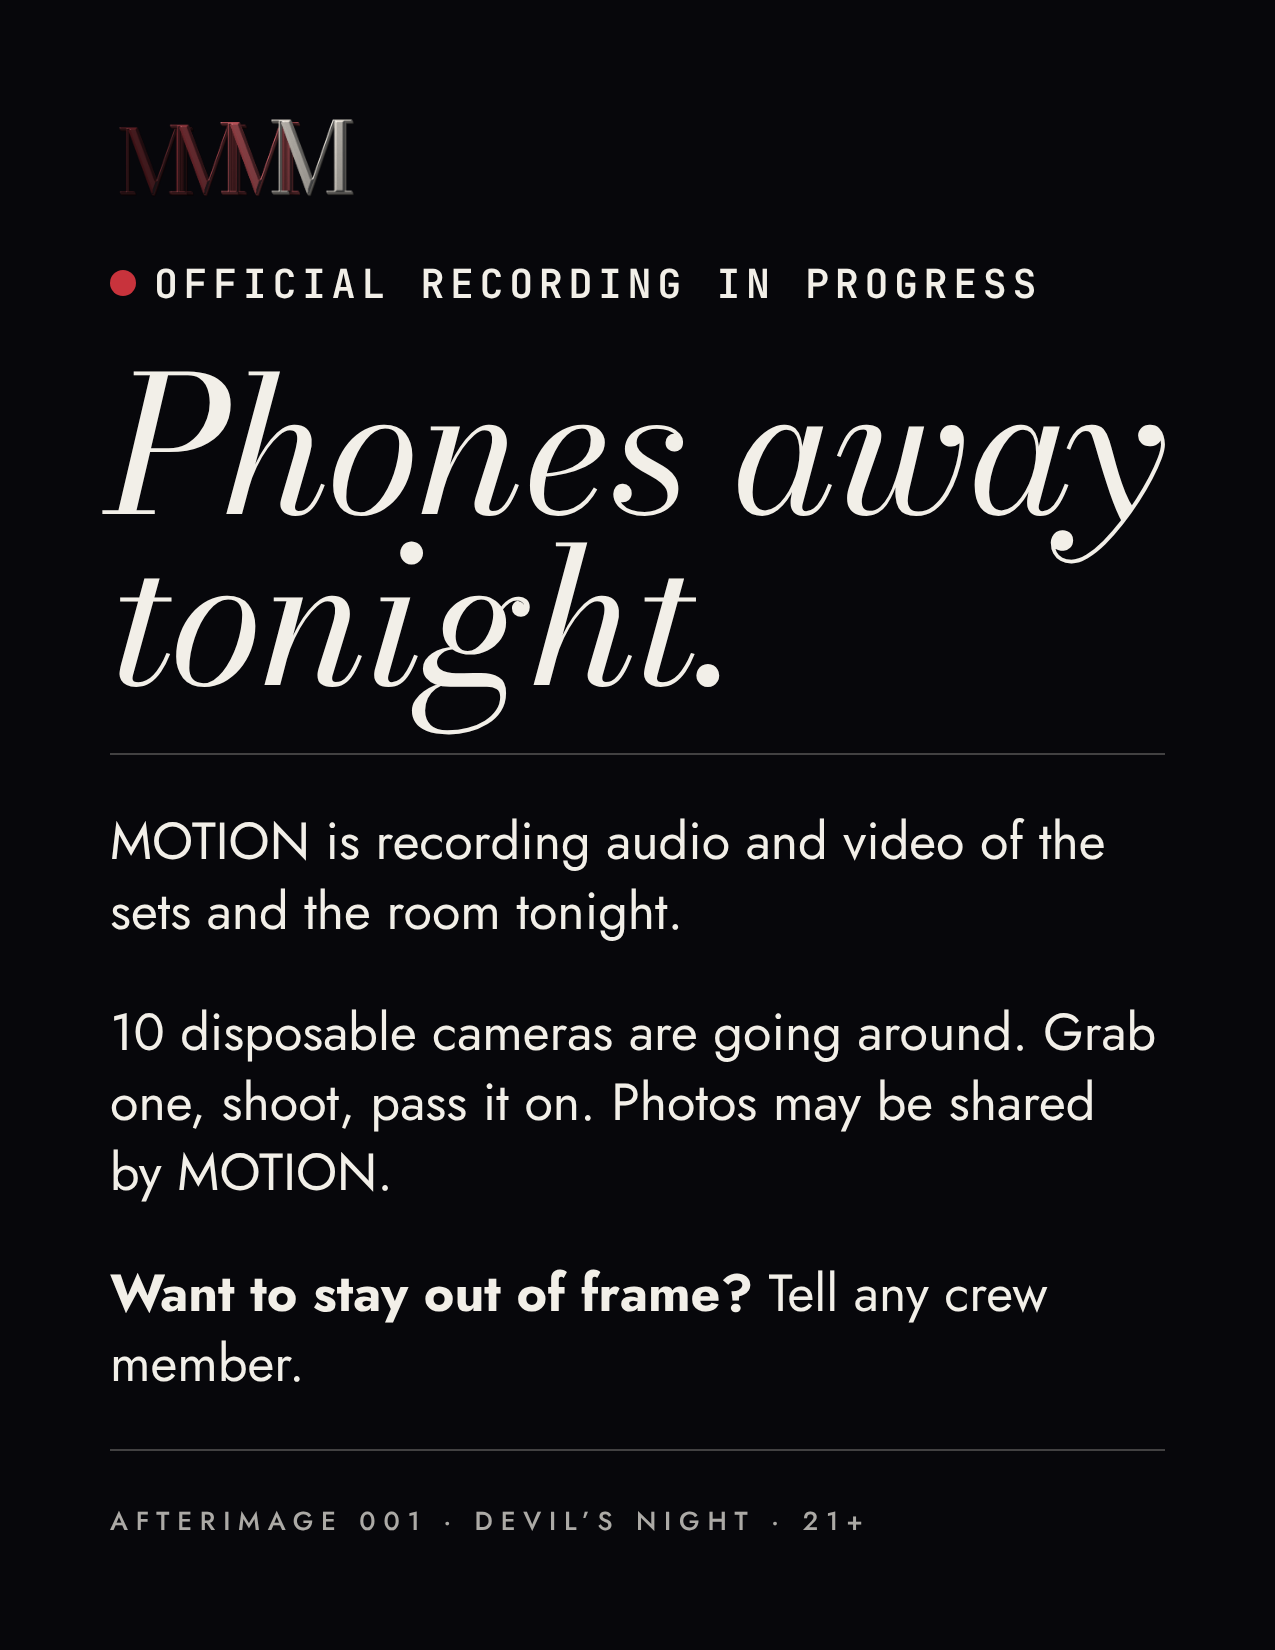
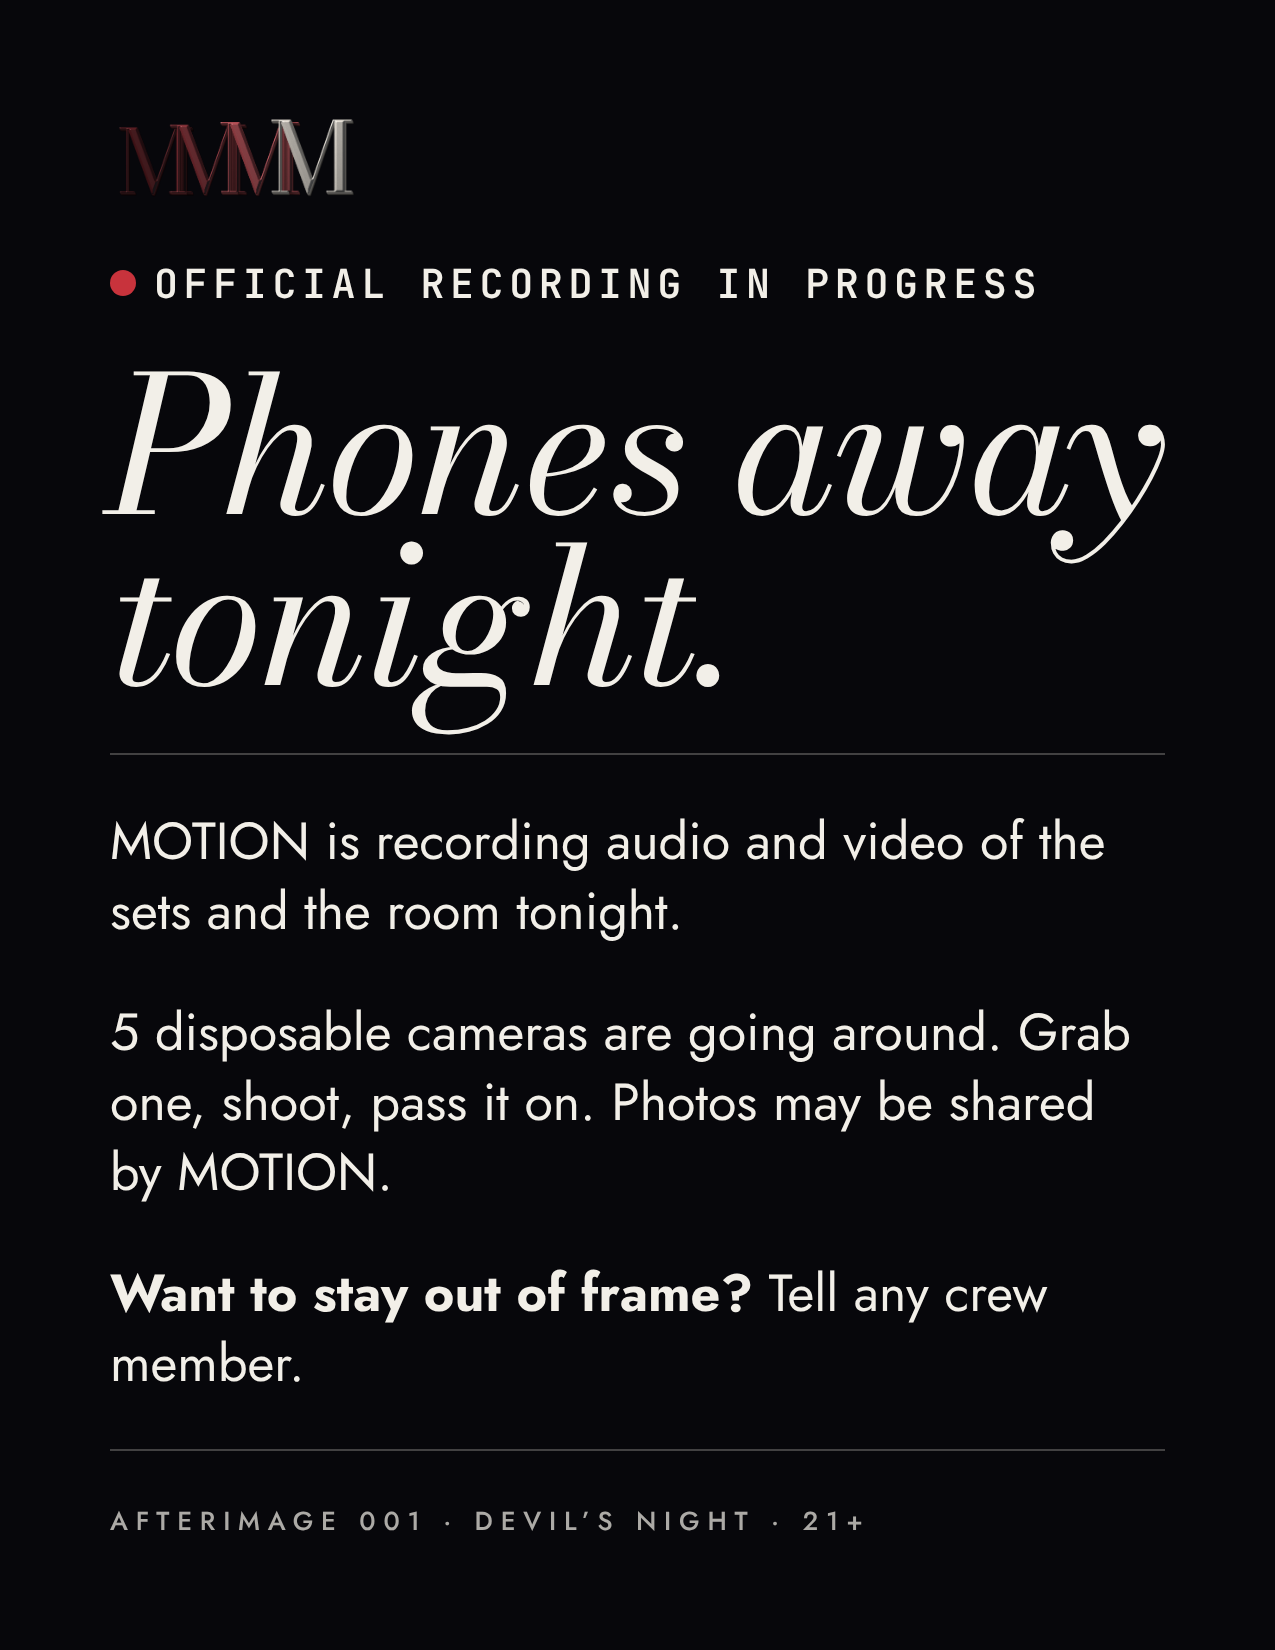
Cameras: 10 -> 5 across the program, posts, door sign and copy
Claude-Session: https://claude.ai/code/session_01A4LNKAXFW4TxnWYyCtkq6Z

Changed region(s): [[0.0918, 0.6182, 0.9176, 0.6491]]

diff --git a/media/posts/lineup_v2/src/promo_18oct.html b/media/posts/lineup_v2/src/promo_18oct.html
@@ -70,10 +70,10 @@ const V = {
     <div style="position:absolute;left:72px;right:72px;top:190px" class="k b">10.30.2026 · Devil’s Night</div>
     <div class="strip"><div class="img"></div><div class="holes l">${holes(9)}</div><div class="holes r2">${holes(9)}</div>
       <span class="edge" style="left:12px;top:-34px">MOTION 400 · B&amp;W</span><span class="edge" style="right:12px;top:-34px">24A ▸ 25</span>
-      <span class="edge" style="left:12px;bottom:-34px">MOTION 01 / 10</span><span class="edge" style="right:12px;bottom:-34px">25A ▸</span></div>
+      <span class="edge" style="left:12px;bottom:-34px">MOTION 01 / 05</span><span class="edge" style="right:12px;bottom:-34px">25A ▸</span></div>
     <div style="position:absolute;left:72px;right:72px;top:1430px;display:grid;gap:26px">
       <div class="it" style="font-size:118px">No phones.</div><div class="rule"></div>
-      <div style="font-size:34px;font-weight:300;line-height:1.45;color:#d9d4cb">10 disposable cameras go round the room. Shoot, pass it on. We develop the film and post it after.</div></div>
+      <div style="font-size:34px;font-weight:300;line-height:1.45;color:#d9d4cb">5 disposable cameras go round the room. Shoot, pass it on. We develop the film and post it after.</div></div>
     ${FOOT('Invite only', 'RSVP · link in bio')}</div>`,
   lineup: `<div class="s"><div class="top">${MARK}<span class="k">AFTERIMAGE 001</span></div>
     <div style="position:absolute;left:0;right:0;top:160px;text-align:center" class="k b">Devil’s Night · the lineup</div>
@@ -89,7 +89,7 @@ const V = {
     <div class="bignum">01</div><div class="big low"><span class="num">01</span><h1 class="it">Phones away.</h1><p>The night is officially recorded: the sets and the room. You don’t need your phone to remember it.</p></div>
     ${FOOT('AFTERIMAGE 001', 'Official recording on site')}</div>`,
   rules3: `<div class="s"><div class="top">${MARK}<span class="k">III / IV</span></div>
-    <div class="bignum">02</div><div class="big low"><span class="num">02</span><h1 class="it">10 cameras.</h1><p>Disposable cameras go round the room. Shoot, pass it on. We develop the film and post the best frames.</p></div>
+    <div class="bignum">02</div><div class="big low"><span class="num">02</span><h1 class="it">5 cameras.</h1><p>Disposable cameras go round the room. Shoot, pass it on. We develop the film and post the best frames.</p></div>
     ${FOOT('AFTERIMAGE 001', 'Shoot · pass it on')}</div>`,
   rules4: `<div class="s"><div class="top">${MARK}<span class="k">IV / IV</span></div>
     <div class="big"><span class="num">03</span><h1 class="it">Know this.</h1>
@@ -99,17 +99,17 @@ const V = {
   door: `<div class="door"><div class="in">${'<img class="mk" src="../logo/MOTION_mark_3d.png" alt="">'}<div class="rec"><i></i>OFFICIAL RECORDING IN PROGRESS</div>
     <h1 class="it">Phones away tonight.</h1><div class="hr"></div>
     <p>MOTION is recording audio and video of the sets and the room tonight.</p>
-    <p>10 disposable cameras are going around. Grab one, shoot, pass it on. Photos may be shared by MOTION.</p>
+    <p>5 disposable cameras are going around. Grab one, shoot, pass it on. Photos may be shared by MOTION.</p>
     <p><b>Want to stay out of frame?</b> Tell any crew member.</p><div class="hr"></div>
     <div class="small">AFTERIMAGE 001 · Devil’s Night · 21+</div></div></div>`,
 };
 V.camsign = `<div class="s"><div class="top">${MARK}<span class="k">AFTERIMAGE 001</span></div>
-    <div class="bignum" style="top:120px;left:40px;font-size:400px">10</div>
-    <div class="big low" style="bottom:200px"><span class="k b">Shooters wanted</span><h1 class="it">10 cameras.<br>10 of you.</h1>
-      <p style="max-width:900px">10 guests get a disposable camera. You shoot the night; we develop the film and post your frames, credited to you.</p>
+    <div class="bignum" style="top:120px;left:40px;font-size:400px">5</div>
+    <div class="big low" style="bottom:200px"><span class="k b">Shooters wanted</span><h1 class="it">5 cameras.<br>5 of you.</h1>
+      <p style="max-width:900px">5 guests get a disposable camera. You shoot the night; we develop the film and post your frames, credited to you.</p>
       <div class="list" style="margin-top:6px"><div><span>→</span><b>DM “CAMERA” to claim one</b></div></div></div>
-    ${FOOT('First 10 DMs', '10.30.2026')}</div>`;
-V.camsignstory = V.camsign.replace('class="s"', 'class="s story"').replace('top:120px;left:40px;font-size:400px', 'top:200px;left:40px');
+    ${FOOT('First 5 DMs', '10.30.2026')}</div>`;
+V.camsignstory = V.camsign.replace('class="s"', 'class="s story"').replace('top:120px;left:40px;font-size:400px', 'top:200px;left:40px;font-size:640px');
 V.doordark = V.door.replace('class="door"', 'class="door dark"');
 R.innerHTML = V[v] || '';
 </script></body></html>

diff --git a/orch/plans/CAMERA_PROGRAM.md b/orch/plans/CAMERA_PROGRAM.md
@@ -1,19 +1,19 @@
 # AFTERIMAGE 001 · Disposable camera program (DRAFT, nothing bought)
 
-**Goal:** 10 disposable cameras go round the guests during the night. We collect them at the end, develop the film and post the best frames. It fits the phones-away rule: the photos still happen, they just come back days later.
+**Goal (5 cameras, decided 18 Oct):** 5 disposable cameras go round the guests during the night. We collect them at the end, develop the film and post the best frames. It fits the phones-away rule: the photos still happen, they just come back days later.
 
 ## 1. Which camera (prices are estimates from 18 Oct searches; check before buying)
-| Option | Film | Look | Est. price each | 10 cameras | Notes |
+| Option | Film | Look | Est. price each | 5 cameras | Notes |
 |---|---|---|---|---|---|
-| **A · Ilford XP2 Super single-use** (recommended) | B&W, ISO 400, **C-41 process** | Black and white, on brand | ~$20–30 | ~$200–300 | B&W film that any colour (C-41) lab develops fast and cheap. Matches the brand with no conversion. |
-| B · Kodak Tri-X single-use | B&W, true B&W process | Classic grainy B&W | ~$18–26 | ~$180–260 | Needs a B&W-capable lab; slower and often mail-in. |
-| C · Kodak FunSaver 800 (flash) | Colour, ISO 800 | Colour, we convert to B&W | ~$12–26 | ~$120–260 | Cheapest and easiest to find; ISO 800 suits a dark room. |
-| D · Fujifilm QuickSnap Flash 400 | Colour, ISO 400 | Colour, we convert | ~$13–25 | ~$130–250 | Common; ISO 400 is a bit slow for a dim room. |
+| **A · Ilford XP2 Super single-use** (recommended) | B&W, ISO 400, **C-41 process** | Black and white, on brand | ~$20–30 | ~$100–150 | B&W film that any colour (C-41) lab develops fast and cheap. Matches the brand with no conversion. |
+| B · Kodak Tri-X single-use | B&W, true B&W process | Classic grainy B&W | ~$18–26 | ~$90–130 | Needs a B&W-capable lab; slower and often mail-in. |
+| C · Kodak FunSaver 800 (flash) | Colour, ISO 800 | Colour, we convert to B&W | ~$12–26 | ~$60–130 | Cheapest and easiest to find; ISO 800 suits a dark room. |
+| D · Fujifilm QuickSnap Flash 400 | Colour, ISO 400 | Colour, we convert | ~$13–25 | ~$65–125 | Common; ISO 400 is a bit slow for a dim room. |
 
-All have a built-in flash, which is the look of party disposables. 27 shots each, so about **270 frames** in total.
+All have a built-in flash, which is the look of party disposables. 27 shots each, so about **135 frames** in total.
 
 ## 2. Developing (estimates; call to confirm current price and turnaround)
-- **Austin Camera** (local): single-use C-41 develop listed at **$14.99**, next day for develop-only; scans cost extra. With option A or C, about **$150–200** for 10 rolls including scans.
+- **Austin Camera** (local): single-use C-41 develop listed at **$14.99**, next day for develop-only; scans cost extra. With option A or C, about **$75–100** for 5 rolls including scans.
 - **Holland Photo** (local): about 3 business days (2023 info; no price found).
 - **Mail-in B&W** (for option B): Old School Photo Lab lists B&W disposables at **$20**, 7–10 days; Kubus from $15.99. That's too slow to post the same week.
 
@@ -24,24 +24,23 @@ The pool is $450, spend so far $381.13, buffer **$68.87** (confirmed, from the s
 
 | Item | Estimate |
 |---|---|
-| 10 × XP2 cameras | ~$200–300 |
-| Develop + scan, 10 rolls | ~$150–200 |
-| **Total** | **~$350–500** |
+| 5 × XP2 cameras | ~$100–150 |
+| Develop + scan, 5 rolls | ~$75–100 |
+| **Total** | **~$175–250** |
 
-That's about $280–430 over the buffer. Options:
+That's about $105–180 over the buffer. Options:
 - (a) Jovanni or the collective covers it as a separate line.
-- (b) Cut to 5 cameras, about half the cost.
 - (c) Ask a sponsor or the artists to chip in.
 
 Nothing is bought until Jovanni decides.
 
 ## 4. Hand-out rule (open: who runs it)
-- The first 10 guests through the door get a camera, with a numbered sticker (MOTION 01–10) that matches the camera.
+- The 5 guests who claimed one by DM ("CAMERA", first 5) get a camera at the door, with a numbered sticker (MOTION 01–05) that matches the camera.
 - Sign-out on **paper at the door**, camera number to first name only. **It never goes in git or the repo** (guest data rule).
 - Rule on the sticker: "Shoot, then pass it on. Don't take it home."
 
 ## 5. Collection
-- **1:45 AM last pour:** one named crew member walks the room and counts all 10 back in by number.
+- **1:45 AM last pour:** one named crew member walks the room and counts all 5 back in by number.
 - Cameras go in one sealed bag. Jovanni takes it home and drops it at the lab the next day.
 
 ## 6. Rights and posting
@@ -50,7 +49,7 @@ Nothing is bought until Jovanni decides.
 - Review every frame before posting. No faces of people who opted out, nothing compromising, and nothing showing the venue address, street or building signage.
 
 ## Questions for Jovanni
-1. Which option (A to D), and how many cameras?
+1. Which option (A to D)? (Count decided: 5.)
 2. Who buys, and from what money?
 3. Which lab, and who drops off and picks up?
 4. Who runs hand-out and collection?

diff --git a/media/posts/rules/DRAFTS_18OCT.md b/media/posts/rules/DRAFTS_18OCT.md
@@ -13,21 +13,21 @@ All drafts need Jovanni's OK before use. No address, no guest names, and no set 
 Source for the posts: `media/posts/lineup_v2/src/promo_18oct.html?v=camstory|lineup|rules1..4|door|doordark` (fonts and images resolve from the scratchpad layout, the same as the flyer source).
 
 ## Invite DM line (draft)
-> Heads up for Friday: phones away. The night is officially recorded, and we're passing 10 disposable cameras around the room. We develop the film and post it after. Want to stay out of frame? Just tell the crew. Address comes by DM the day of.
+> Heads up for Friday: phones away. The night is officially recorded, and we're passing 5 disposable cameras around the room. We develop the film and post it after. Want to stay out of frame? Just tell the crew. Address comes by DM the day of.
 
 ## Crew door script (draft)
 > "Quick one: tonight's recorded, sets and the room. Phones away, there are disposable cameras going round instead. If you don't want to be in any photos, tell me or any crew and we'll keep you out."
 
 ## Notes
-- Camera story copy: "No phones. 10 disposable cameras… We develop the film and post it after." Change "10" if the camera count changes (see `orch/plans/CAMERA_PROGRAM.md`).
+- Camera story copy: "No phones. 5 disposable cameras… We develop the film and post it after." (5 decided 18 Oct; change all drafts together if it moves) (see `orch/plans/CAMERA_PROGRAM.md`).
 - The film-edge text on the story ("MOTION 400 · B&W") is decorative and brand-free.
 - The rules carousel uses the confirmed $40 costume prize only as "best look wins cash", with no amount.
 
 ## Camera sign-up post (added 18 Oct, DRAFT)
 - `media/posts/camera_story/MOTION_camera_signup_DRAFT_1080x1350.png` (feed) and `..._story_DRAFT_1080x1920.png`.
-- Copy: "Shooters wanted. 10 cameras. 10 of you. … DM 'CAMERA' to claim one. First 10 DMs."
-- Post this only after the cameras are bought (open: budget). Keep the list of the 10 names on paper or in a private sheet, never in git.
-- Caption draft: "10 disposable cameras. 10 shooters. You shoot Devil's Night, we develop it and post your frames with your name on them. DM CAMERA. First 10 only."
+- Copy: "Shooters wanted. 5 cameras. 5 of you. … DM 'CAMERA' to claim one. First 5 DMs."
+- Post this only after the cameras are bought (open: budget). Keep the list of the 5 names on paper or in a private sheet, never in git.
+- Caption draft: "5 disposable cameras. 5 shooters. You shoot Devil's Night, we develop it and post your frames with your name on them. DM CAMERA. First 5 only."
 
 ## Costume prize: announce or surprise?
 The flyer already says "best look wins $40", so the prize is public. Don't give it its own post. Keep the *moment* a surprise: crown the winner live at 1:30 AM on camera, then post the winner photo the next day. That turns it into content.

diff --git a/orch/context/SOURCE_OF_TRUTH_latest.md b/orch/context/SOURCE_OF_TRUTH_latest.md
@@ -6,7 +6,7 @@ Last consolidated: Wed 14 Oct 2026, afternoon · 16 days to doors (Rohan Rali cu
 - **Door / ID:** Jovanni, part-time. **Open:** one more sober door/welfare helper.
 - **Jovanni:** records the crowd, takes photos, picks up the CDJs. Audio backup if Rapid Ric doesn't supply: Rock n Roll Rentals (open: quote).
 - **Capacity:** 50–70 guests (estimate; confirm). 61 named so far (confirmed count); 14 Tally RSVPs covering 39 heads (confirmed, 18 Oct).
-- **Phones away.** Official recording, disclosed. **10 disposable cameras** go round the guests (open: model, buyer, budget, lab).
+- **Phones away.** Official recording, disclosed. **5 disposable cameras** (decided 18 Oct), claimed by DM "CAMERA", first 5 (open: model, buyer, budget ~$175–250 estimate, lab).
 - Song request for the b2b montage: Silva Bumpa – "On2Nite" (open: needs an audio file to cut to; post with Instagram's licensed library audio).
 
 ## Decided 16 Oct (Jovanni confirmed the 15 Oct Logistics Control sheet)
